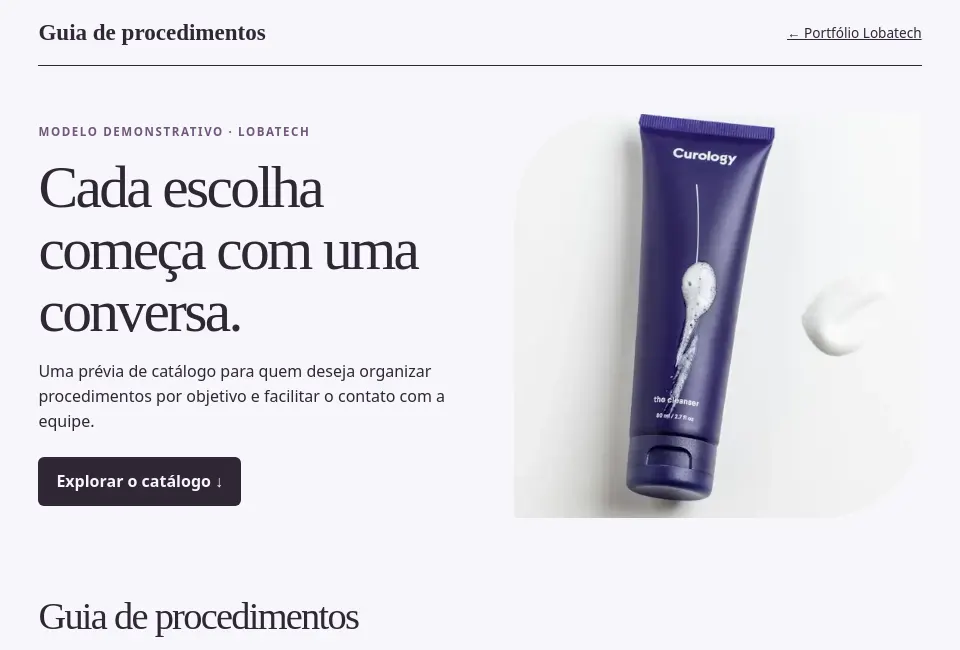
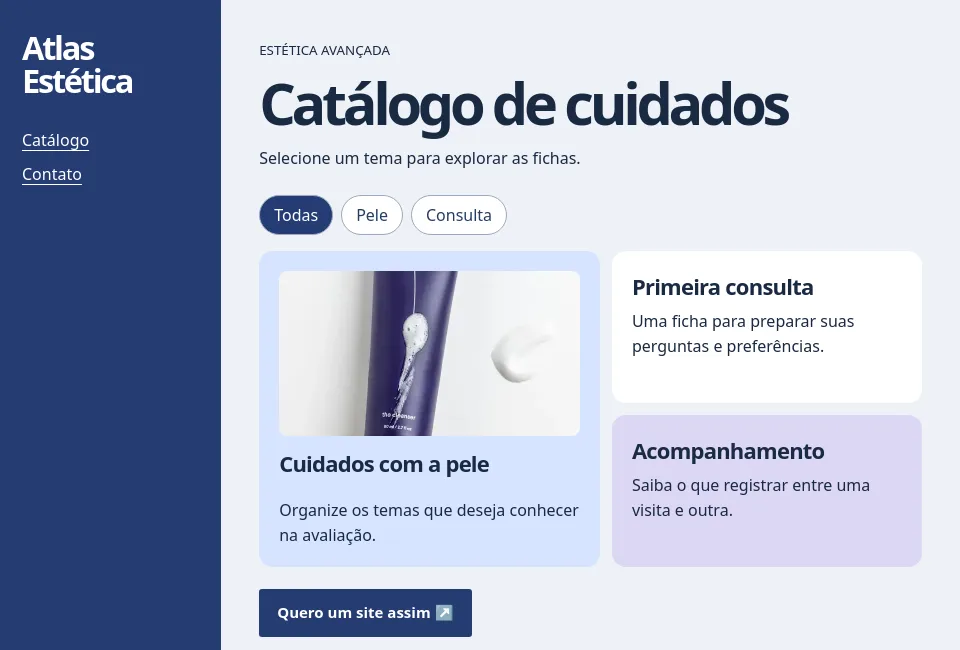
Cria layouts editorial, imersivo e de catálogo para as três demonstrações

diff --git a/projetos/estetica-avancada.html b/projetos/estetica-avancada.html
@@ -1,6 +1,2 @@
-<!doctype html>
-<html lang="pt-BR"><head><meta charset="utf-8"><meta name="viewport" content="width=device-width,initial-scale=1"><title>Site para Estética Avançada · Portfólio Lobatech</title><meta name="description" content="Uma prévia de catálogo para quem deseja organizar procedimentos por objetivo e facilitar o contato com a equipe."><link rel="stylesheet" href="modelos.css"></head>
-<body class="avancada"><header><strong class="identity">Guia de procedimentos</strong><a class="back" href="../#portfolio">← Portfólio Lobatech</a></header>
-<main><section class="hero"><div><span class="eyebrow">Modelo demonstrativo · Lobatech</span><h1>Cada escolha começa com uma conversa.</h1><p>Uma prévia de catálogo para quem deseja organizar procedimentos por objetivo e facilitar o contato com a equipe.</p><a class="cta" href="#servicos">Explorar o catálogo ↓</a></div><img src="../assets/editorial-avancada.webp" width="540" height="600" alt=""></section>
-<section id="servicos"><h2>Guia de procedimentos</h2><div class="grid"><article><h3>Objetivos</h3><p>Uma introdução para ajudar o visitante a localizar o assunto de interesse.</p></article><article><h3>Procedimentos</h3><p>Fichas de apresentação com espaço para descrição e perguntas.</p></article><article><h3>Planejamento</h3><p>Uma seção para explicar o que conversar antes de agendar.</p></article></div></section>
-<section class="contact"><h2>Quer um site nesse estilo?</h2><p>Converse com Lucas, da Lobatech, sobre um projeto para o seu negócio.</p><a class="cta" href="https://wa.me/5547920002728?text=Ol%C3%A1%2C%20Lucas%21%20Vi%20o%20modelo%20Site%20para%20Est%C3%A9tica%20Avan%C3%A7ada%20no%20portf%C3%B3lio%20da%20Lobatech%20e%20gostaria%20de%20pedir%20um%20or%C3%A7amento.">Pedir orçamento pelo WhatsApp ↗</a></section></main><footer>Projeto demonstrativo da Lobatech<a href="../#portfolio">Ver outros modelos</a></footer></body></html>
+<!doctype html><html lang="pt-BR"><head><meta charset="utf-8"><meta name="viewport" content="width=device-width,initial-scale=1"><title>Atlas Estética · Modelo Lobatech</title><style>*{box-sizing:border-box}body{margin:0}a{color:inherit;text-underline-offset:4px}a:focus-visible,button:focus-visible,summary:focus-visible{outline:3px solid #db8731;outline-offset:4px}button,summary{cursor:pointer}button{font:inherit}img{display:block;width:100%;object-fit:cover}h1,h2,h3,p,figure{margin:0}p{line-height:1.55}.back{font:600 13px/1.3 system-ui;text-decoration:none}.order{display:inline-block;font:700 15px/1.3 system-ui;text-decoration:none;padding:14px 18px;border-radius:3px}.foot{display:flex;justify-content:space-between;align-items:center;gap:15px;flex-wrap:wrap;padding:24px 0;margin-top:32px;border-top:1px solid currentColor;font:13px system-ui}
+body{background:#edf1f6;color:#192a42;font:16px system-ui}.shell{display:grid;grid-template-columns:clamp(180px,23vw,290px) 1fr;min-height:100vh}.rail{background:#263c73;color:white;padding:32px 22px;display:flex;flex-direction:column;gap:32px}.rail strong{font-size:clamp(27px,3.4vw,46px);letter-spacing:-.07em;line-height:1}.rail nav{display:grid;gap:12px}.rail .back{margin-top:auto}.area{padding:clamp(22px,4vw,56px);min-width:0}.area h1{font-size:clamp(40px,6vw,84px);letter-spacing:-.075em;line-height:1;margin:14px 0}.filters{display:flex;flex-wrap:wrap;gap:8px;margin:24px 0 16px}.filters button{border:1px solid #9aaac1;background:white;color:#253d62;border-radius:24px;padding:8px 14px}.filters button[aria-pressed=true]{background:#253c74;color:white}.tiles{display:grid;grid-template-columns:1.1fr 1fr;gap:12px}.tile{min-height:145px;padding:20px;background:white;border-radius:14px}.tile:first-child{grid-row:span 2;display:flex;flex-direction:column;gap:12px;background:#d6e4ff}.tile img{height:165px;border-radius:8px}.tile:last-child{background:#dcd7f5}.tile h2{font-size:22px;letter-spacing:-.035em;margin-bottom:8px}.tile[hidden]{display:none}.order{background:#263c73;color:white;margin-top:22px}.foot{font-size:12px}@media(max-width:650px){.shell{display:block}.rail{padding:16px 20px;flex-direction:row;align-items:center;justify-content:space-between;gap:8px}.rail nav{display:none}.rail .back{margin:0}.tiles{grid-template-columns:1fr}.area{padding:20px}.tile{min-height:auto}}</style></head><body><div class="shell"><aside class="rail"><strong>Atlas<br>Estética</strong><nav aria-label="Seções"><a href="#catalogo">Catálogo</a><a href="#contato">Contato</a></nav><a class="back" href="https://lobatex-luc.github.io/Lobatech/#portfolio">← Portfólio Lobatech</a></aside><main class="area" id="catalogo"><small>ESTÉTICA AVANÇADA</small><h1>Catálogo de cuidados</h1><p>Selecione um tema para explorar as fichas.</p><div class="filters" role="group" aria-label="Filtrar fichas"><button aria-pressed="true" data-key="all">Todas</button><button aria-pressed="false" data-key="pele">Pele</button><button aria-pressed="false" data-key="consulta">Consulta</button></div><section class="tiles" aria-label="Fichas de cuidados"><article class="tile" data-group="pele"><img src="../assets/editorial-avancada.webp" alt="Produto de cuidado facial"><h2>Cuidados com a pele</h2><p>Organize os temas que deseja conhecer na avaliação.</p></article><article class="tile" data-group="consulta"><h2>Primeira consulta</h2><p>Uma ficha para preparar suas perguntas e preferências.</p></article><article class="tile" data-group="consulta"><h2>Acompanhamento</h2><p>Saiba o que registrar entre uma visita e outra.</p></article></section><div id="contato"><a class="order" href="https://wa.me/5547920002728?text=Ol%C3%A1%2C%20Lucas%21%20Gostaria%20de%20um%20or%C3%A7amento%20para%20um%20site%20no%20estilo%20do%20modelo%20Atlas%20Est%C3%A9tica.">Quero um site assim ↗</a></div><footer class="foot"><span>Modelo demonstrativo da Lobatech</span><a class="back" href="https://lobatex-luc.github.io/Lobatech/#portfolio">← Portfólio Lobatech</a></footer></main></div><script>document.querySelectorAll("[data-key]").forEach(button=>button.addEventListener("click",()=>{document.querySelectorAll("[data-key]").forEach(item=>item.setAttribute("aria-pressed",String(item===button)));document.querySelectorAll("[data-group]").forEach(card=>{card.hidden=button.dataset.key!=="all"&&button.dataset.key!==card.dataset.group})}));</script></body></html>

diff --git a/projetos/clinica-de-estetica.html b/projetos/clinica-de-estetica.html
@@ -1,6 +1,2 @@
-<!doctype html>
-<html lang="pt-BR"><head><meta charset="utf-8"><meta name="viewport" content="width=device-width,initial-scale=1"><title>Site para Clínica de Estética · Portfólio Lobatech</title><meta name="description" content="Um modelo de site para reunir experiências de bem-estar. Explore como uma clínica pode apresentar cada opção antes do primeiro contato."><link rel="stylesheet" href="modelos.css"></head>
-<body class="clinica"><header><strong class="identity">Experiências de bem-estar</strong><a class="back" href="../#portfolio">← Portfólio Lobatech</a></header>
-<main><section class="hero"><div><span class="eyebrow">Modelo demonstrativo · Lobatech</span><h1>Uma pausa para cuidar de si.</h1><p>Um modelo de site para reunir experiências de bem-estar. Explore como uma clínica pode apresentar cada opção antes do primeiro contato.</p><a class="cta" href="#servicos">Ver experiências ↓</a></div><img src="../assets/editorial-clinica.webp" width="540" height="600" alt=""></section>
-<section id="servicos"><h2>Experiências de bem-estar</h2><div class="grid"><article><h3>Relaxamento</h3><p>Apresentação das experiências em um menu de leitura rápida.</p></article><article><h3>Cuidados corporais</h3><p>Espaço para descrever os cuidados oferecidos e o perfil de cada serviço.</p></article><article><h3>Primeira visita</h3><p>Uma seção para explicar ao visitante como funciona o atendimento.</p></article></div></section>
-<section class="contact"><h2>Quer um site nesse estilo?</h2><p>Converse com Lucas, da Lobatech, sobre um projeto para o seu negócio.</p><a class="cta" href="https://wa.me/5547920002728?text=Ol%C3%A1%2C%20Lucas%21%20Vi%20o%20modelo%20Site%20para%20Cl%C3%ADnica%20de%20Est%C3%A9tica%20no%20portf%C3%B3lio%20da%20Lobatech%20e%20gostaria%20de%20pedir%20um%20or%C3%A7amento.">Pedir orçamento pelo WhatsApp ↗</a></section></main><footer>Projeto demonstrativo da Lobatech<a href="../#portfolio">Ver outros modelos</a></footer></body></html>
+<!doctype html><html lang="pt-BR"><head><meta charset="utf-8"><meta name="viewport" content="width=device-width,initial-scale=1"><title>Casa Pausa · Modelo Lobatech</title><style>*{box-sizing:border-box}body{margin:0}a{color:inherit;text-underline-offset:4px}a:focus-visible,button:focus-visible,summary:focus-visible{outline:3px solid #db8731;outline-offset:4px}button,summary{cursor:pointer}button{font:inherit}img{display:block;width:100%;object-fit:cover}h1,h2,h3,p,figure{margin:0}p{line-height:1.55}.back{font:600 13px/1.3 system-ui;text-decoration:none}.order{display:inline-block;font:700 15px/1.3 system-ui;text-decoration:none;padding:14px 18px;border-radius:3px}.foot{display:flex;justify-content:space-between;align-items:center;gap:15px;flex-wrap:wrap;padding:24px 0;margin-top:32px;border-top:1px solid currentColor;font:13px system-ui}
+body{background:#162923;color:#f9f2dd;font:16px system-ui}.scene{min-height:clamp(530px,90svh,820px);position:relative;isolation:isolate;display:flex;flex-direction:column;justify-content:space-between;padding:24px 6vw 42px;overflow:hidden}.scene>img{position:absolute;inset:0;z-index:-2;width:100%;height:100%;object-position:50% 47%}.scene:before{content:"";position:absolute;inset:0;z-index:-1;background:linear-gradient(180deg,#132720b3,transparent 35%,#0b211bea 100%),linear-gradient(90deg,#15251c89,transparent 80%)}header{display:flex;justify-content:space-between;align-items:center}.mark{font:italic 29px Georgia}.scene h1{font:italic 500 clamp(60px,10vw,135px)/.97 Georgia;letter-spacing:-.065em;max-width:11ch}.scene p{margin-top:18px;max-width:36ch}.order{border:1px solid #f6eac7;border-radius:30px;color:#18241d;background:#f6eac7;margin-top:18px}.menu{max-width:1000px;margin:auto;padding:40px 6vw 10px}.menu h2{font:36px Georgia;margin-bottom:16px}details{border-top:1px solid #718173;padding:16px 0}summary{font-size:19px}details p{margin:12px 0;color:#cedbcf}.foot{margin:20px 6vw 0}@media(max-width:600px){.scene{min-height:630px}.scene h1{font-size:64px}}</style></head><body><main><section class="scene"><img src="../assets/editorial-clinica.webp" alt=""><header><span class="mark">Casa Pausa</span><a class="back" href="https://lobatex-luc.github.io/Lobatech/#portfolio">← Portfólio Lobatech</a></header><div><h1>Tempo para desacelerar.</h1><p>Explore um menu de experiências de bem-estar, no seu ritmo.</p><a class="order" href="#experiencias">Escolher uma experiência ↓</a></div></section><section class="menu" id="experiencias"><h2>Menu de experiências</h2><details><summary>Relaxamento</summary><p>Um momento dedicado à pausa. Converse sobre preferências e conheça o formato da experiência.</p></details><details><summary>Cuidados corporais</summary><p>Explore as opções de cuidado e organize as perguntas para a primeira visita.</p></details><details><summary>Primeira visita</summary><p>Conheça o espaço e conte o que procura antes de escolher uma experiência.</p></details><a class="order" href="https://wa.me/5547920002728?text=Ol%C3%A1%2C%20Lucas%21%20Gostaria%20de%20um%20or%C3%A7amento%20para%20um%20site%20no%20estilo%20do%20modelo%20Casa%20Pausa.">Quero um site assim ↗</a></section><footer class="foot"><span>Modelo demonstrativo da Lobatech</span><a class="back" href="https://lobatex-luc.github.io/Lobatech/#portfolio">← Portfólio Lobatech</a></footer></main></body></html>

diff --git a/projetos/estetica-facial.html b/projetos/estetica-facial.html
@@ -1,6 +1,2 @@
-<!doctype html>
-<html lang="pt-BR"><head><meta charset="utf-8"><meta name="viewport" content="width=device-width,initial-scale=1"><title>Site para Estética Facial · Portfólio Lobatech</title><meta name="description" content="Um exemplo de como apresentar cuidados faciais, organizar os serviços e ajudar o visitante a escolher por onde começar."><link rel="stylesheet" href="modelos.css"></head>
-<body class="facial"><header><strong class="identity">Cuidados com a pele</strong><a class="back" href="../#portfolio">← Portfólio Lobatech</a></header>
-<main><section class="hero"><div><span class="eyebrow">Modelo demonstrativo · Lobatech</span><h1>Um espaço para falar de pele.</h1><p>Um exemplo de como apresentar cuidados faciais, organizar os serviços e ajudar o visitante a escolher por onde começar.</p><a class="cta" href="#servicos">Explorar cuidados ↓</a></div><img src="../assets/editorial-facial.webp" width="540" height="600" alt=""></section>
-<section id="servicos"><h2>Cuidados com a pele</h2><div class="grid"><article><h3>Rotina facial</h3><p>Uma seção para explicar as etapas de uma rotina de cuidados.</p></article><article><h3>Avaliação</h3><p>Um espaço para apresentar a primeira conversa e as dúvidas mais comuns.</p></article><article><h3>Acompanhamento</h3><p>Orientações para organizar os próximos encontros.</p></article></div></section>
-<section class="contact"><h2>Quer um site nesse estilo?</h2><p>Converse com Lucas, da Lobatech, sobre um projeto para o seu negócio.</p><a class="cta" href="https://wa.me/5547920002728?text=Ol%C3%A1%2C%20Lucas%21%20Vi%20o%20modelo%20Site%20para%20Est%C3%A9tica%20Facial%20no%20portf%C3%B3lio%20da%20Lobatech%20e%20gostaria%20de%20pedir%20um%20or%C3%A7amento.">Pedir orçamento pelo WhatsApp ↗</a></section></main><footer>Projeto demonstrativo da Lobatech<a href="../#portfolio">Ver outros modelos</a></footer></body></html>
+<!doctype html><html lang="pt-BR"><head><meta charset="utf-8"><meta name="viewport" content="width=device-width,initial-scale=1"><title>Caderno de Pele · Modelo Lobatech</title><style>*{box-sizing:border-box}body{margin:0}a{color:inherit;text-underline-offset:4px}a:focus-visible,button:focus-visible,summary:focus-visible{outline:3px solid #db8731;outline-offset:4px}button,summary{cursor:pointer}button{font:inherit}img{display:block;width:100%;object-fit:cover}h1,h2,h3,p,figure{margin:0}p{line-height:1.55}.back{font:600 13px/1.3 system-ui;text-decoration:none}.order{display:inline-block;font:700 15px/1.3 system-ui;text-decoration:none;padding:14px 18px;border-radius:3px}.foot{display:flex;justify-content:space-between;align-items:center;gap:15px;flex-wrap:wrap;padding:24px 0;margin-top:32px;border-top:1px solid currentColor;font:13px system-ui}
+body{background:#fff6ea;color:#31251f;font-family:Georgia,serif}main{max-width:1240px;margin:auto;padding:18px 5vw}header,.strap{display:flex;align-items:center;justify-content:space-between;gap:12px}.strap,header,.index{font:700 12px/1.4 system-ui;letter-spacing:.08em;text-transform:uppercase}.mast{font-size:clamp(50px,12.5vw,154px);line-height:1.04;letter-spacing:-.075em;font-weight:500;color:#943c31;border-bottom:5px double;margin:10px 0 7px}.spread{margin:24px 0;display:grid;grid-template-columns:1fr 1.15fr;gap:4%;align-items:center}.spread img{height:clamp(250px,35vw,450px)}.spread h2{font-weight:500;font-size:clamp(35px,5.5vw,74px);line-height:1;letter-spacing:-.055em;margin:12px 0}.spread p{max-width:36ch}.index{color:#943c31}.order{background:#943c31;color:white;margin-top:16px}.notes{display:grid;grid-template-columns:1fr 1fr;border-top:1px solid;padding-top:16px;gap:5%}.notes h3{margin-bottom:5px}@media(max-width:600px){.spread,.notes{grid-template-columns:1fr;gap:18px}.spread img{height:220px}.strap{font-size:10px}}</style></head><body><main><header><span>Estética facial</span><a class="back" href="https://lobatex-luc.github.io/Lobatech/#portfolio">← Portfólio Lobatech</a></header><h1 class="mast">Caderno de Pele</h1><div class="strap"><span>Guia de cuidados</span><span>Edição demonstrativa</span></div><section class="spread"><figure><img src="../assets/editorial-facial.webp" alt="Frasco de cosmético em uma composição em tons pastel"></figure><div><span class="index">Rotina facial</span><h2>O cuidado começa na escuta.</h2><p>Uma conversa sobre a sua rotina abre espaço para conhecer a pele e planejar os próximos cuidados.</p><a class="order" href="https://wa.me/5547920002728?text=Ol%C3%A1%2C%20Lucas%21%20Gostaria%20de%20um%20or%C3%A7amento%20para%20um%20site%20no%20estilo%20do%20modelo%20Caderno%20de%20Pele.">Quero um site assim ↗</a></div></section><section class="notes"><div><h3>A primeira conversa</h3><p>Traga suas dúvidas e conte quais produtos já fazem parte do seu dia.</p></div><div><h3>Seu caderno de rotina</h3><p>Um espaço para registrar observações e organizar perguntas para a próxima visita.</p></div></section><footer class="foot"><span>Modelo demonstrativo da Lobatech</span><a class="back" href="https://lobatex-luc.github.io/Lobatech/#portfolio">← Portfólio Lobatech</a></footer></main></body></html>
